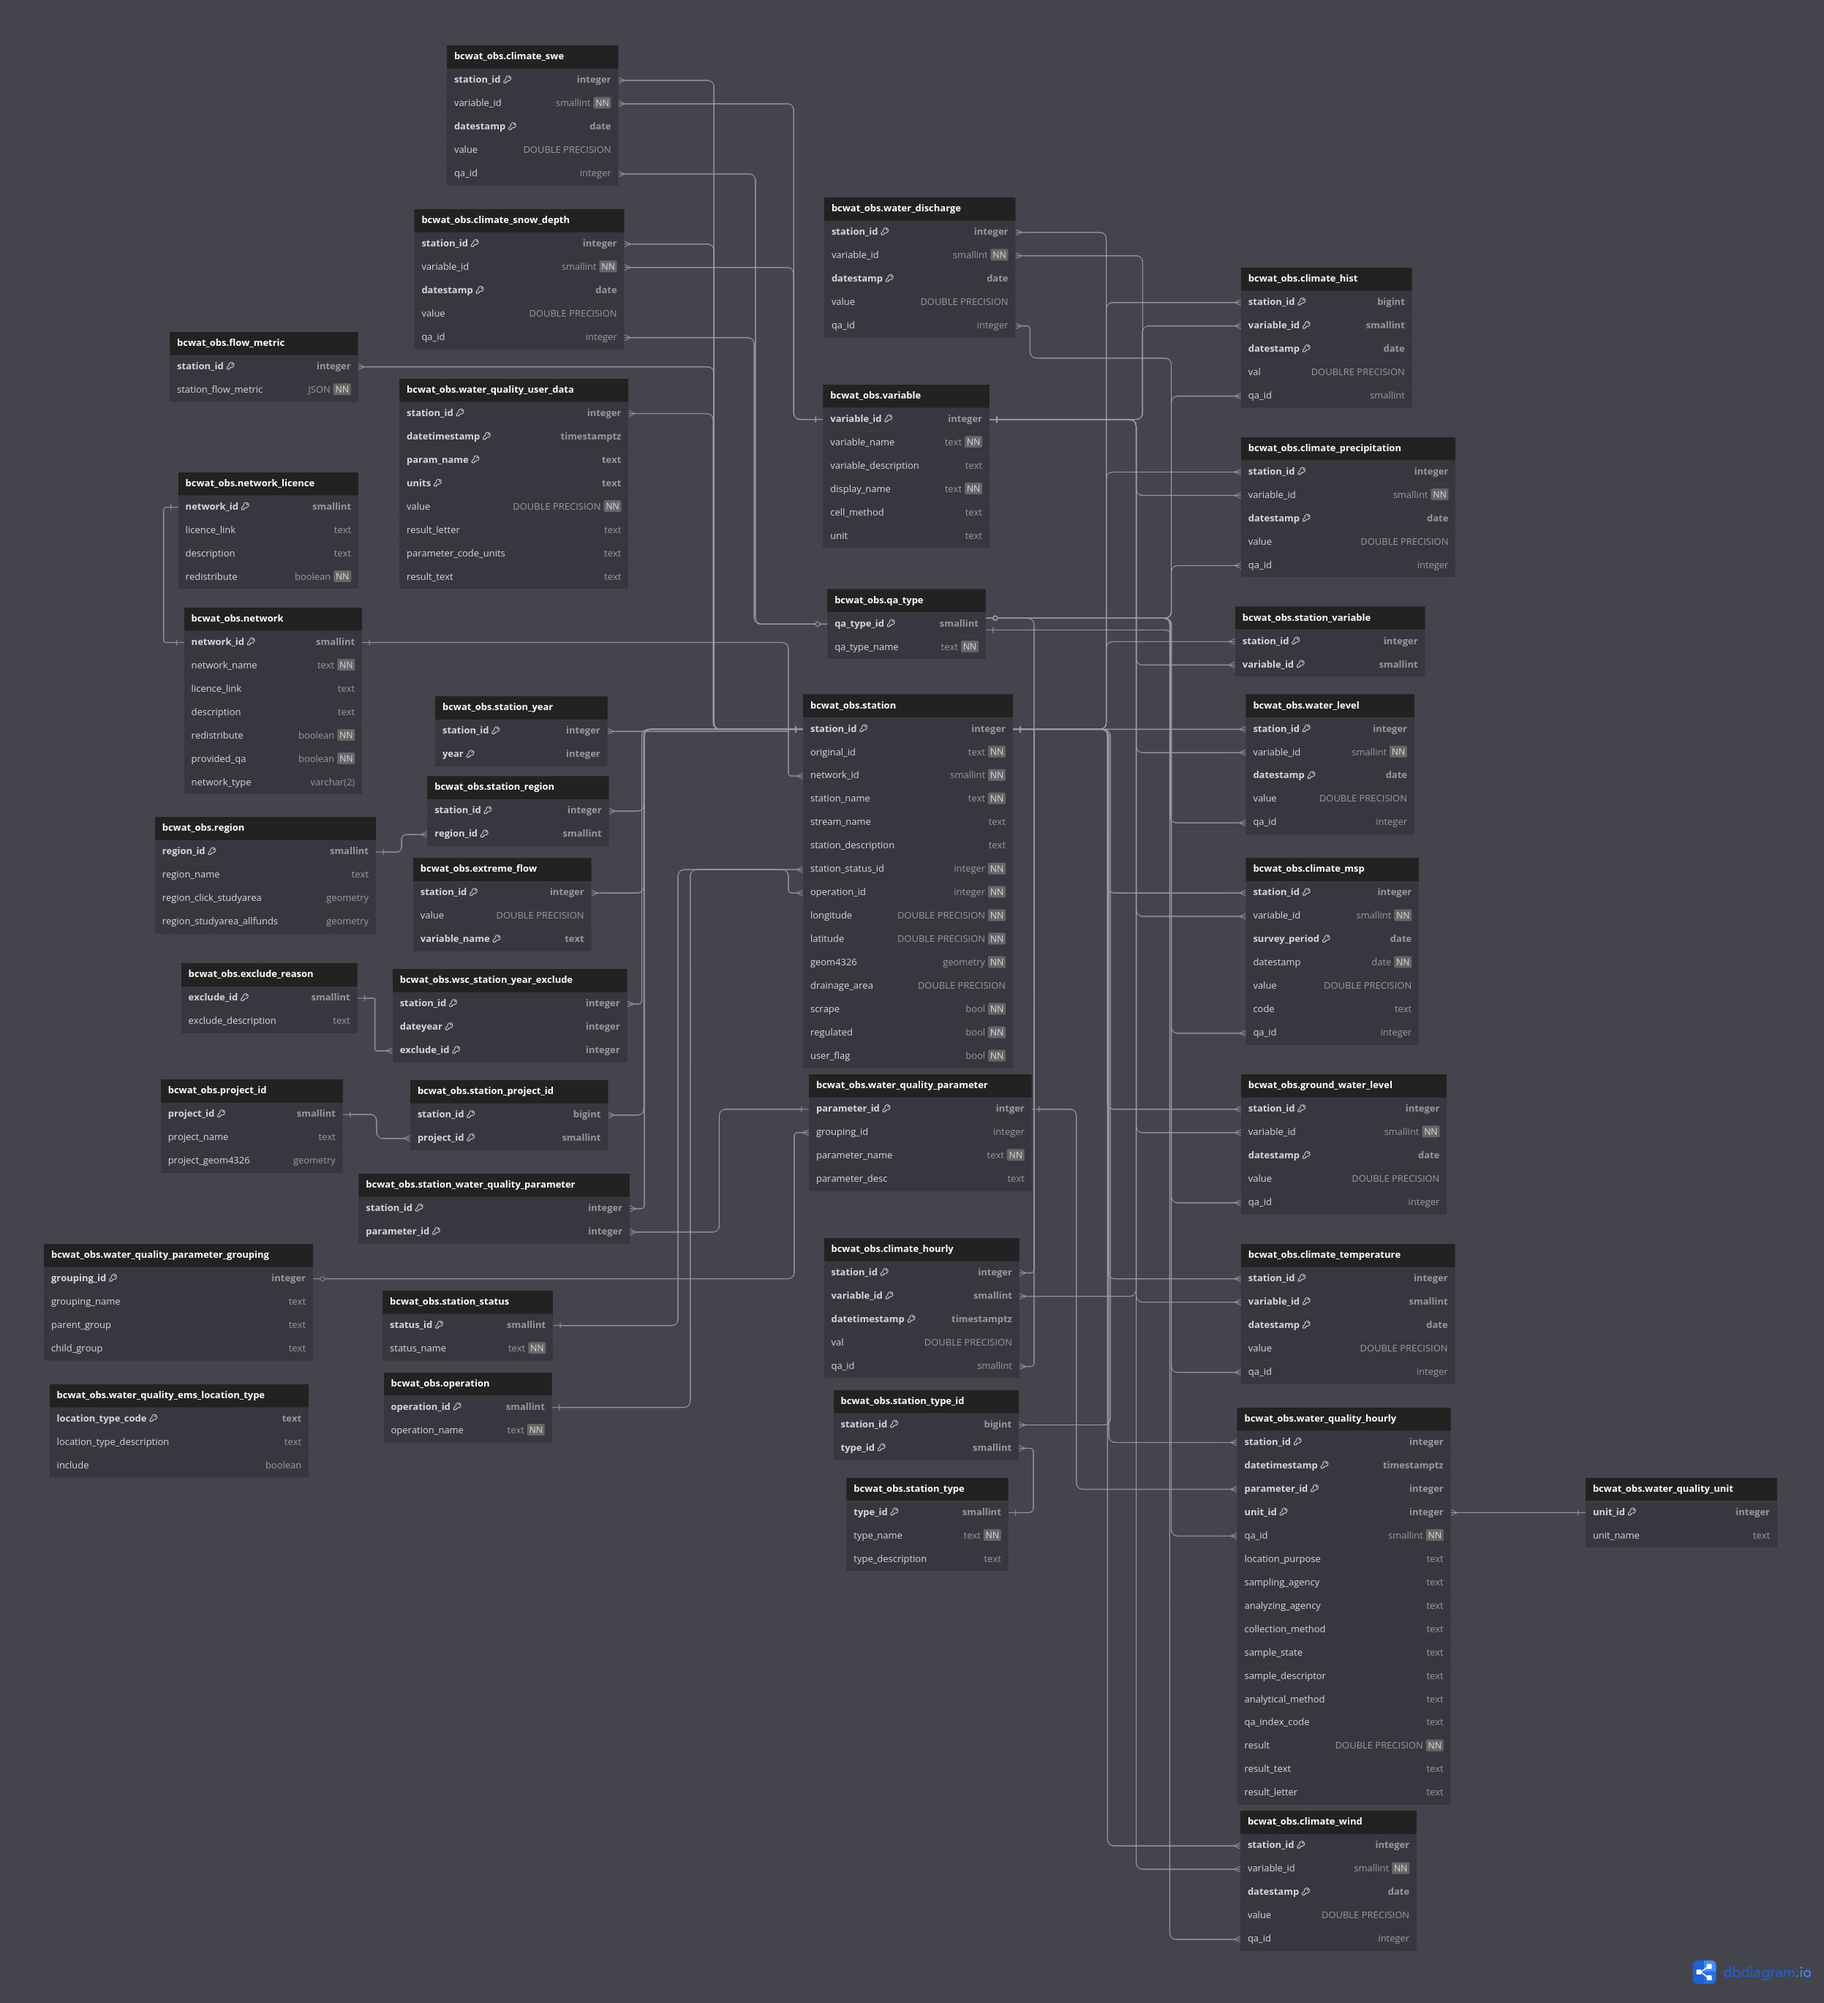
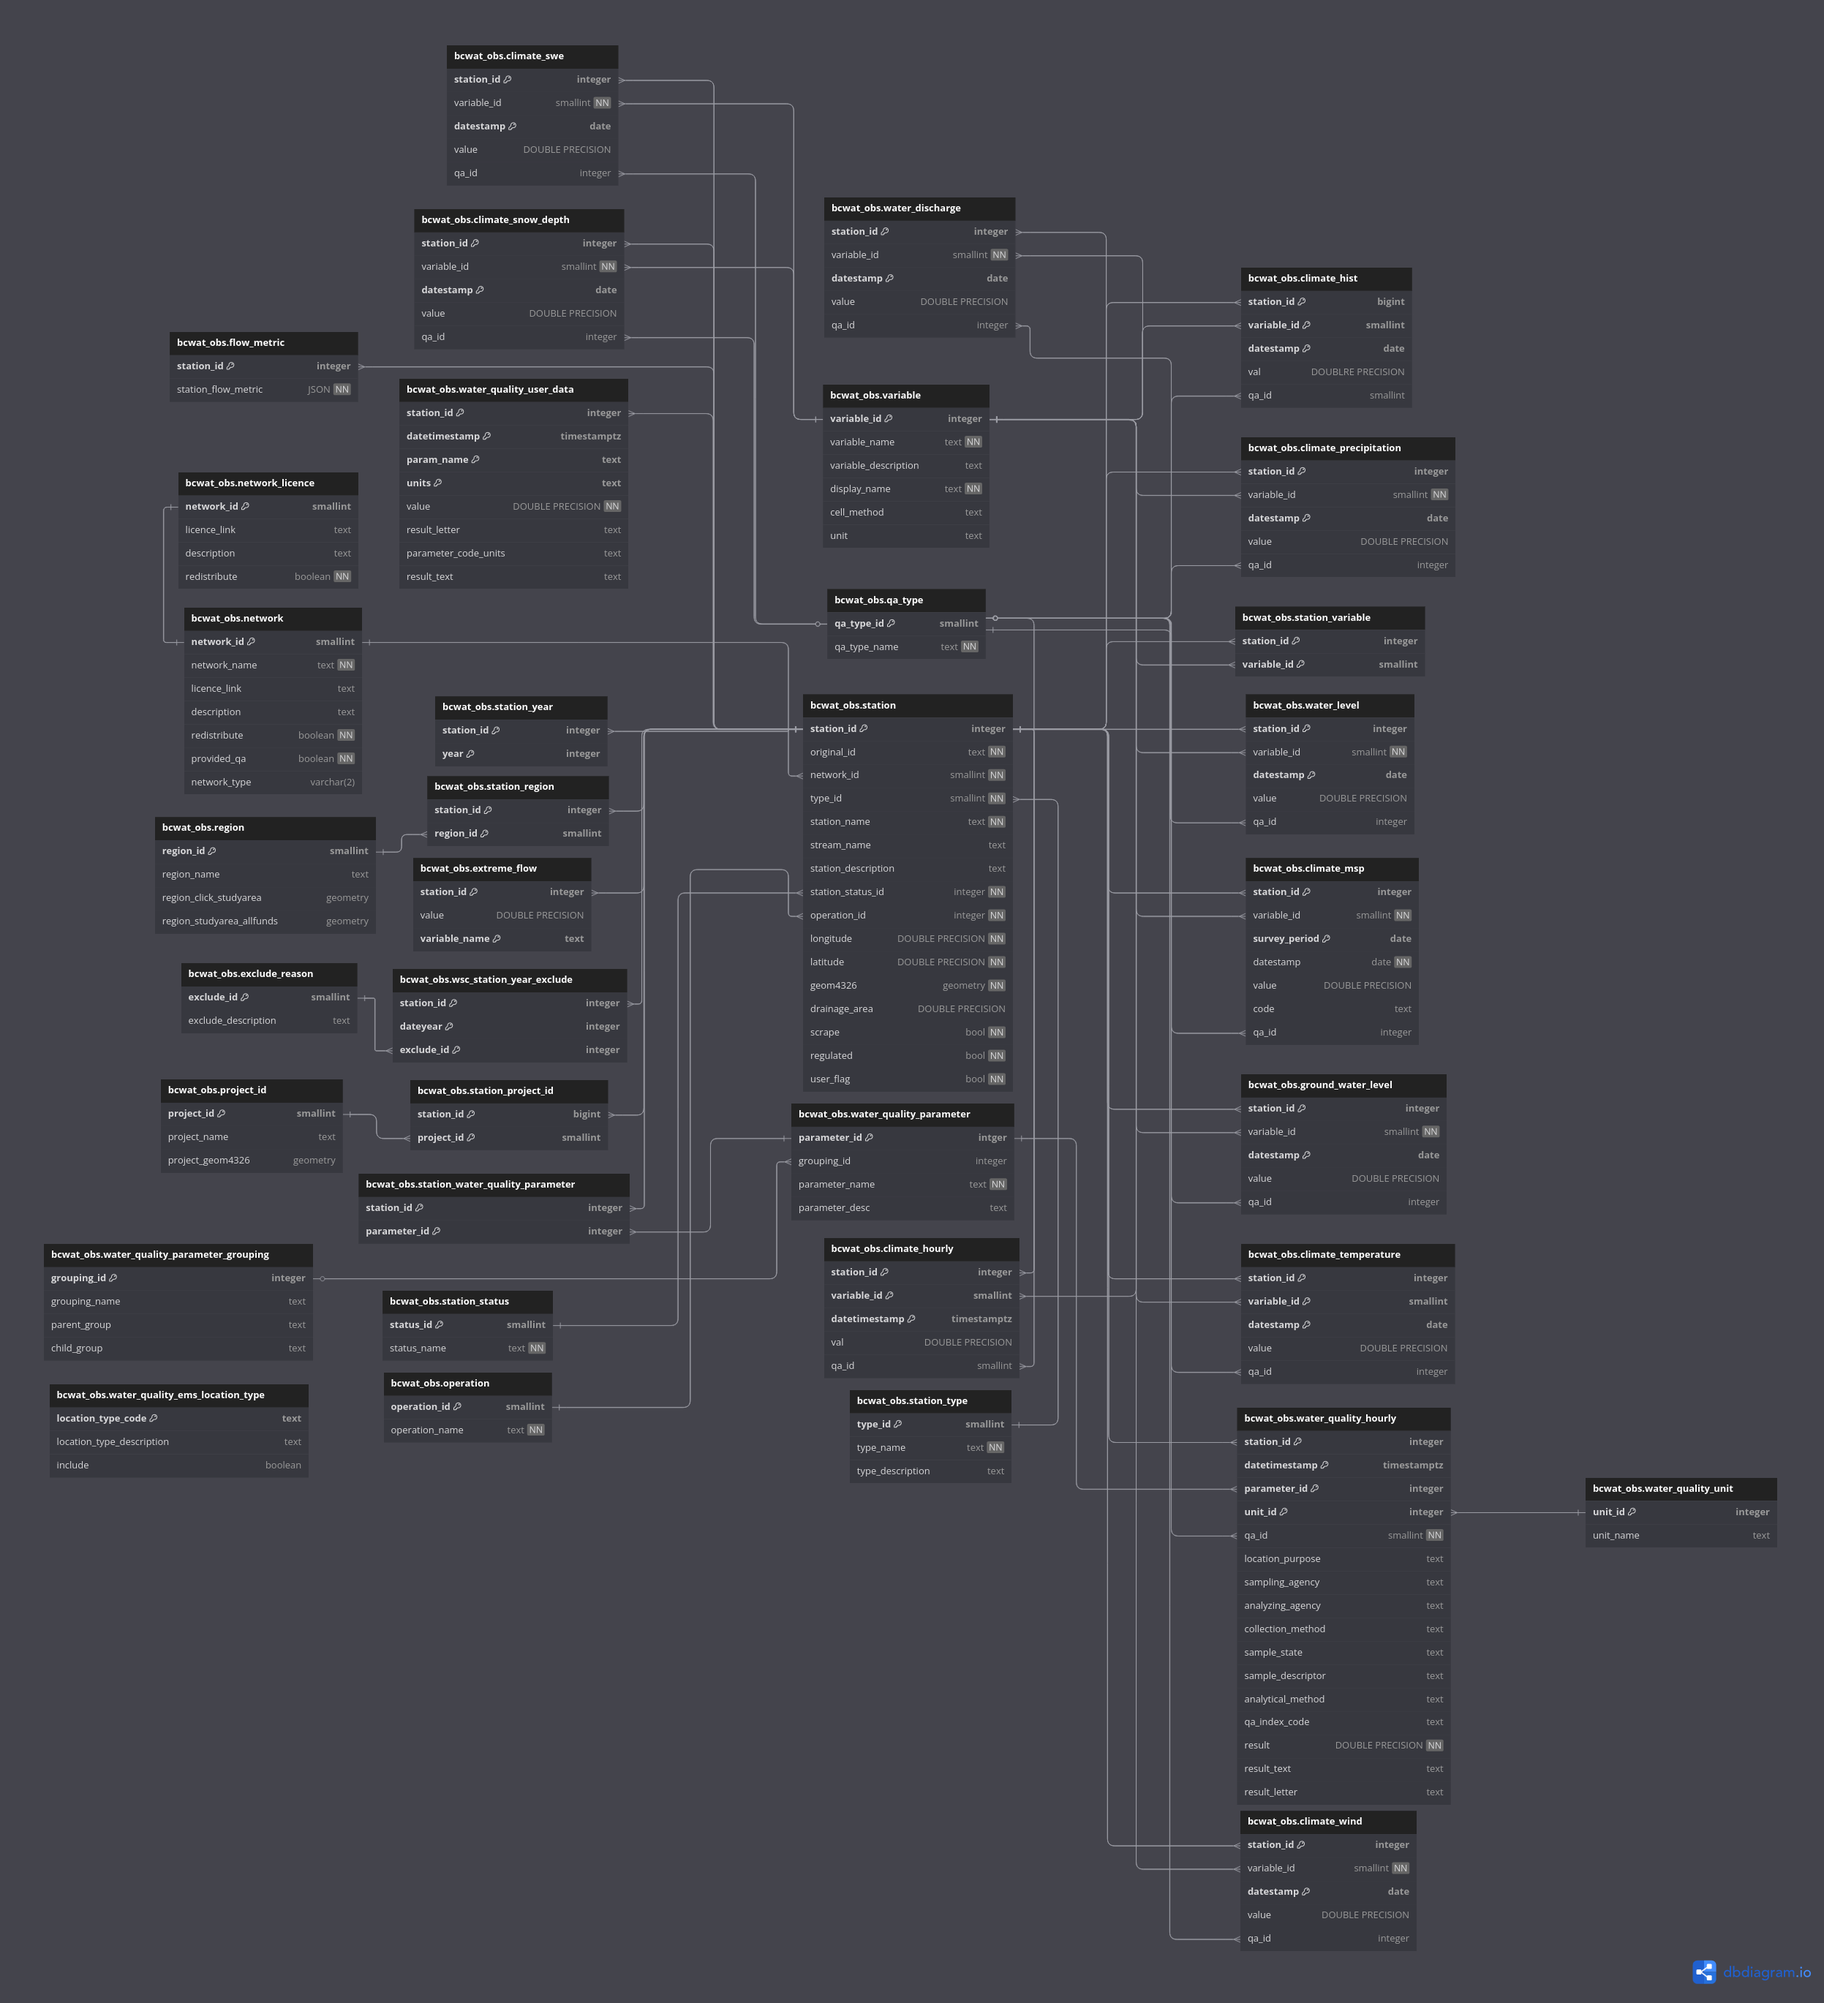
changing type_id to be table

diff --git a/backend/database_initialization/queries/bcwat_obs_erd_diagram.py b/backend/database_initialization/queries/bcwat_obs_erd_diagram.py
@@ -8,6 +8,7 @@ bcwat_obs_query = '''
     "station_id" bigint PRIMARY KEY GENERATED BY DEFAULT AS IDENTITY,
     "original_id" text NOT NULL,
     "network_id" smallint NOT NULL,
+    "type_id" smallint NOT NULL,
     "station_name" text NOT NULL,
     "stream_name" text DEFAULT '',
     "station_description" text DEFAULT '',
@@ -36,12 +37,6 @@ bcwat_obs_query = '''
     "type_id" smallint PRIMARY KEY GENERATED BY DEFAULT AS IDENTITY,
     "type_name" text NOT NULL,
     "type_description" text DEFAULT ''
-    );
-
-    CREATE TABLE "bcwat_obs".station_type_id (
-    "station_id" bigint,
-    "type_id" smallint,
-    PRIMARY KEY ("station_id", "type_id")
     );
 
     CREATE TABLE "bcwat_obs"."station_status" (
@@ -377,7 +372,9 @@ bcwat_obs_query = '''
 
     ALTER TABLE "bcwat_obs"."station" ADD CONSTRAINT "station_operation_id_fkey" FOREIGN KEY ("operation_id") REFERENCES "bcwat_obs"."operation" ("operation_id");
 
-    ALTER TABLE "bcwat_obs"."station" ADD CONSTRAINT "station_network_id_fkey" FOREIGN KEY ("station_status_id") REFERENCES "bcwat_obs"."network" ("network_id");
+    ALTER TABLE "bcwat_obs"."station" ADD CONSTRAINT "station_network_id_fkey" FOREIGN KEY ("network_id") REFERENCES "bcwat_obs"."network" ("network_id");
+
+    ALTER TABLE "bcwat_obs"."station" ADD CONSTRAINT "station_type_id_fkey" FOREIGN KEY ("type_id") REFERENCES "bcwat_obs"."station_type" ("type_id");
 
     ALTER TABLE "bcwat_obs"."station_variable" ADD CONSTRAINT "station_variable_station_id_fkey" FOREIGN KEY ("station_id") REFERENCES "bcwat_obs"."station" ("station_id");
 
@@ -466,10 +463,6 @@ bcwat_obs_query = '''
     ALTER TABLE "bcwat_obs"."climate_swe" ADD CONSTRAINT "climate_swe_qa_id_fkey" FOREIGN KEY ("qa_id") REFERENCES "bcwat_obs"."qa_type" ("qa_type_id");
 
     ALTER TABLE "bcwat_obs"."climate_temperature" ADD CONSTRAINT "climate_temperature_qa_id_fkey" FOREIGN KEY ("qa_id") REFERENCES "bcwat_obs"."qa_type" ("qa_type_id");
-
-    ALTER TABLE "bcwat_obs"."station_type_id" ADD CONSTRAINT "station_type_id_station_id_fkey" FOREIGN KEY ("station_id") REFERENCES "bcwat_obs"."station" ("station_id");
-
-    ALTER TABLE "bcwat_obs"."station_type_id" ADD CONSTRAINT "station_type_id_type_id_fkey" FOREIGN KEY ("type_id") REFERENCES "bcwat_obs"."station_type" ("type_id");
 
     ALTER TABLE "bcwat_obs"."climate_wind" ADD CONSTRAINT "climate_wind_qa_id_fkey" FOREIGN KEY ("qa_id") REFERENCES "bcwat_obs"."qa_type" ("qa_type_id");
 
@@ -648,12 +641,8 @@ bcwat_obs_query = '''
             'msp'::text AS station_data_source
         FROM
             bcwat_obs.station
-        JOIN
-            bcwat_obs.station_type_id station_type
-        USING
-            (station_id)
         WHERE
-            station_type.type_id = 6
+            type_id = 6
         AND
             network_id = 24
         AND
@@ -698,16 +687,12 @@ bcwat_obs_query = '''
             'env-hydro'::text AS station_data_source
         FROM
             bcwat_obs.station
-        JOIN
-            bcwat_obs.station_type_id station_type
-        USING
-            (station_id)
         WHERE
             (network_id = ANY (ARRAY[53, 28]))
         AND
-            station.scrape = true
+            scrape = true
         AND
-            station_type.type_id = 1
+            type_id = 1
     UNION ALL
         SELECT
             station.original_id,
@@ -715,16 +700,12 @@ bcwat_obs_query = '''
             'env-climate'::text AS station_data_source
         FROM
             bcwat_obs.station
-        JOIN
-            bcwat_obs.station_type_id station_type
-        USING
-            (station_id)
         WHERE
             network_id = 53
         AND
             station.scrape = true
         AND
-            station_type.type_id = 3
+            type_id = 3
     UNION ALL
         SELECT
             station.original_id,
@@ -732,16 +713,12 @@ bcwat_obs_query = '''
             'env-gw'::text AS station_data_source
         FROM
             bcwat_obs.station
-        JOIN
-            bcwat_obs.station_type_id station_type
-        USING
-            (station_id)
         WHERE
             network_id = 53
         AND
             station.scrape = true
         AND
-            station_type.type_id = 2
+            type_id = 2
     UNION ALL
         SELECT
             station.original_id,
@@ -749,10 +726,6 @@ bcwat_obs_query = '''
             'env-hydro-surrey'::text AS station_data_source
         FROM
             bcwat_obs.station
-        JOIN
-            bcwat_obs.station_type_id station_type
-        USING
-            (station_id)
         WHERE
             network_id = 53
         AND
@@ -760,7 +733,7 @@ bcwat_obs_query = '''
         AND
             (station.original_id = ANY (ARRAY['08MH0001'::character varying::text, '08MH0002'::character varying::text]))
         AND
-            station_type.type_id = 1
+           type_id = 1
     UNION ALL
         SELECT
             station.original_id,

diff --git a/backend/database_initialization/queries/bcwat_obs_data.py b/backend/database_initialization/queries/bcwat_obs_data.py
@@ -148,6 +148,7 @@ station_query = '''
     SELECT
         native_id AS original_id,
         network_id,
+        type_id,
         station_name,
         stream_name,
         description AS station_description,
@@ -180,6 +181,7 @@ station_query = '''
             ELSE native_id
         END AS original_id,
         network_id,
+        type_id,
         station_name,
         stream_name,
         description AS station_description,
@@ -248,37 +250,6 @@ station_region_query = '''
         (ST_Within(geom4326, region_click_studyarea));
 '''
 
-station_type_id_query = '''
-    SELECT
-        native_id AS original_id,
-        type_id,
-        longitude,
-        latitude
-    FROM
-        wet.stations
-    WHERE
-        prov_terr_state_loc = 'BC'
-    AND
-        network_id != 30
-
-    UNION
-
-    SELECT
-        CASE
-            WHEN import_json IS NOT NULL
-                THEN import_json->>'StationId'
-            ELSE native_id
-        END AS original_id,
-        type_id,
-        longitude,
-        latitude
-    FROM
-        wet.stations
-    WHERE
-        prov_terr_state_loc = 'BC'
-    AND
-        network_id = 30;
-'''
 
 water_station_variable_query= '''
     SELECT

diff --git a/backend/database_initialization/constants.py b/backend/database_initialization/constants.py
@@ -11,7 +11,6 @@ from queries.bcwat_obs_data import (
     station_query,
     station_project_id_query,
     station_region_query,
-    station_type_id_query,
     water_station_variable_query,
     climate_station_variable_query,
     water_quality_station_parameter_query,
@@ -78,7 +77,6 @@ bcwat_obs_data = {
     "project":["project_id", project_query, "bcwat_obs", "joinless"],
     "stations":["station", station_query, "bcwat_obs", "joinless"],
     "station_project_id":["station_project_id", station_project_id_query, "bcwat_obs", "join"],
-    "station_type_id":["station_type_id", station_type_id_query, "bcwat_obs", "join"],
     "water_station_variable":["station_variable", water_station_variable_query, "bcwat_obs", "join"],
     "climate_station_variable":["station_variable", climate_station_variable_query, "bcwat_obs", "join"],
     "station_year":["station_year", station_year_query, "bcwat_obs", "join"],
